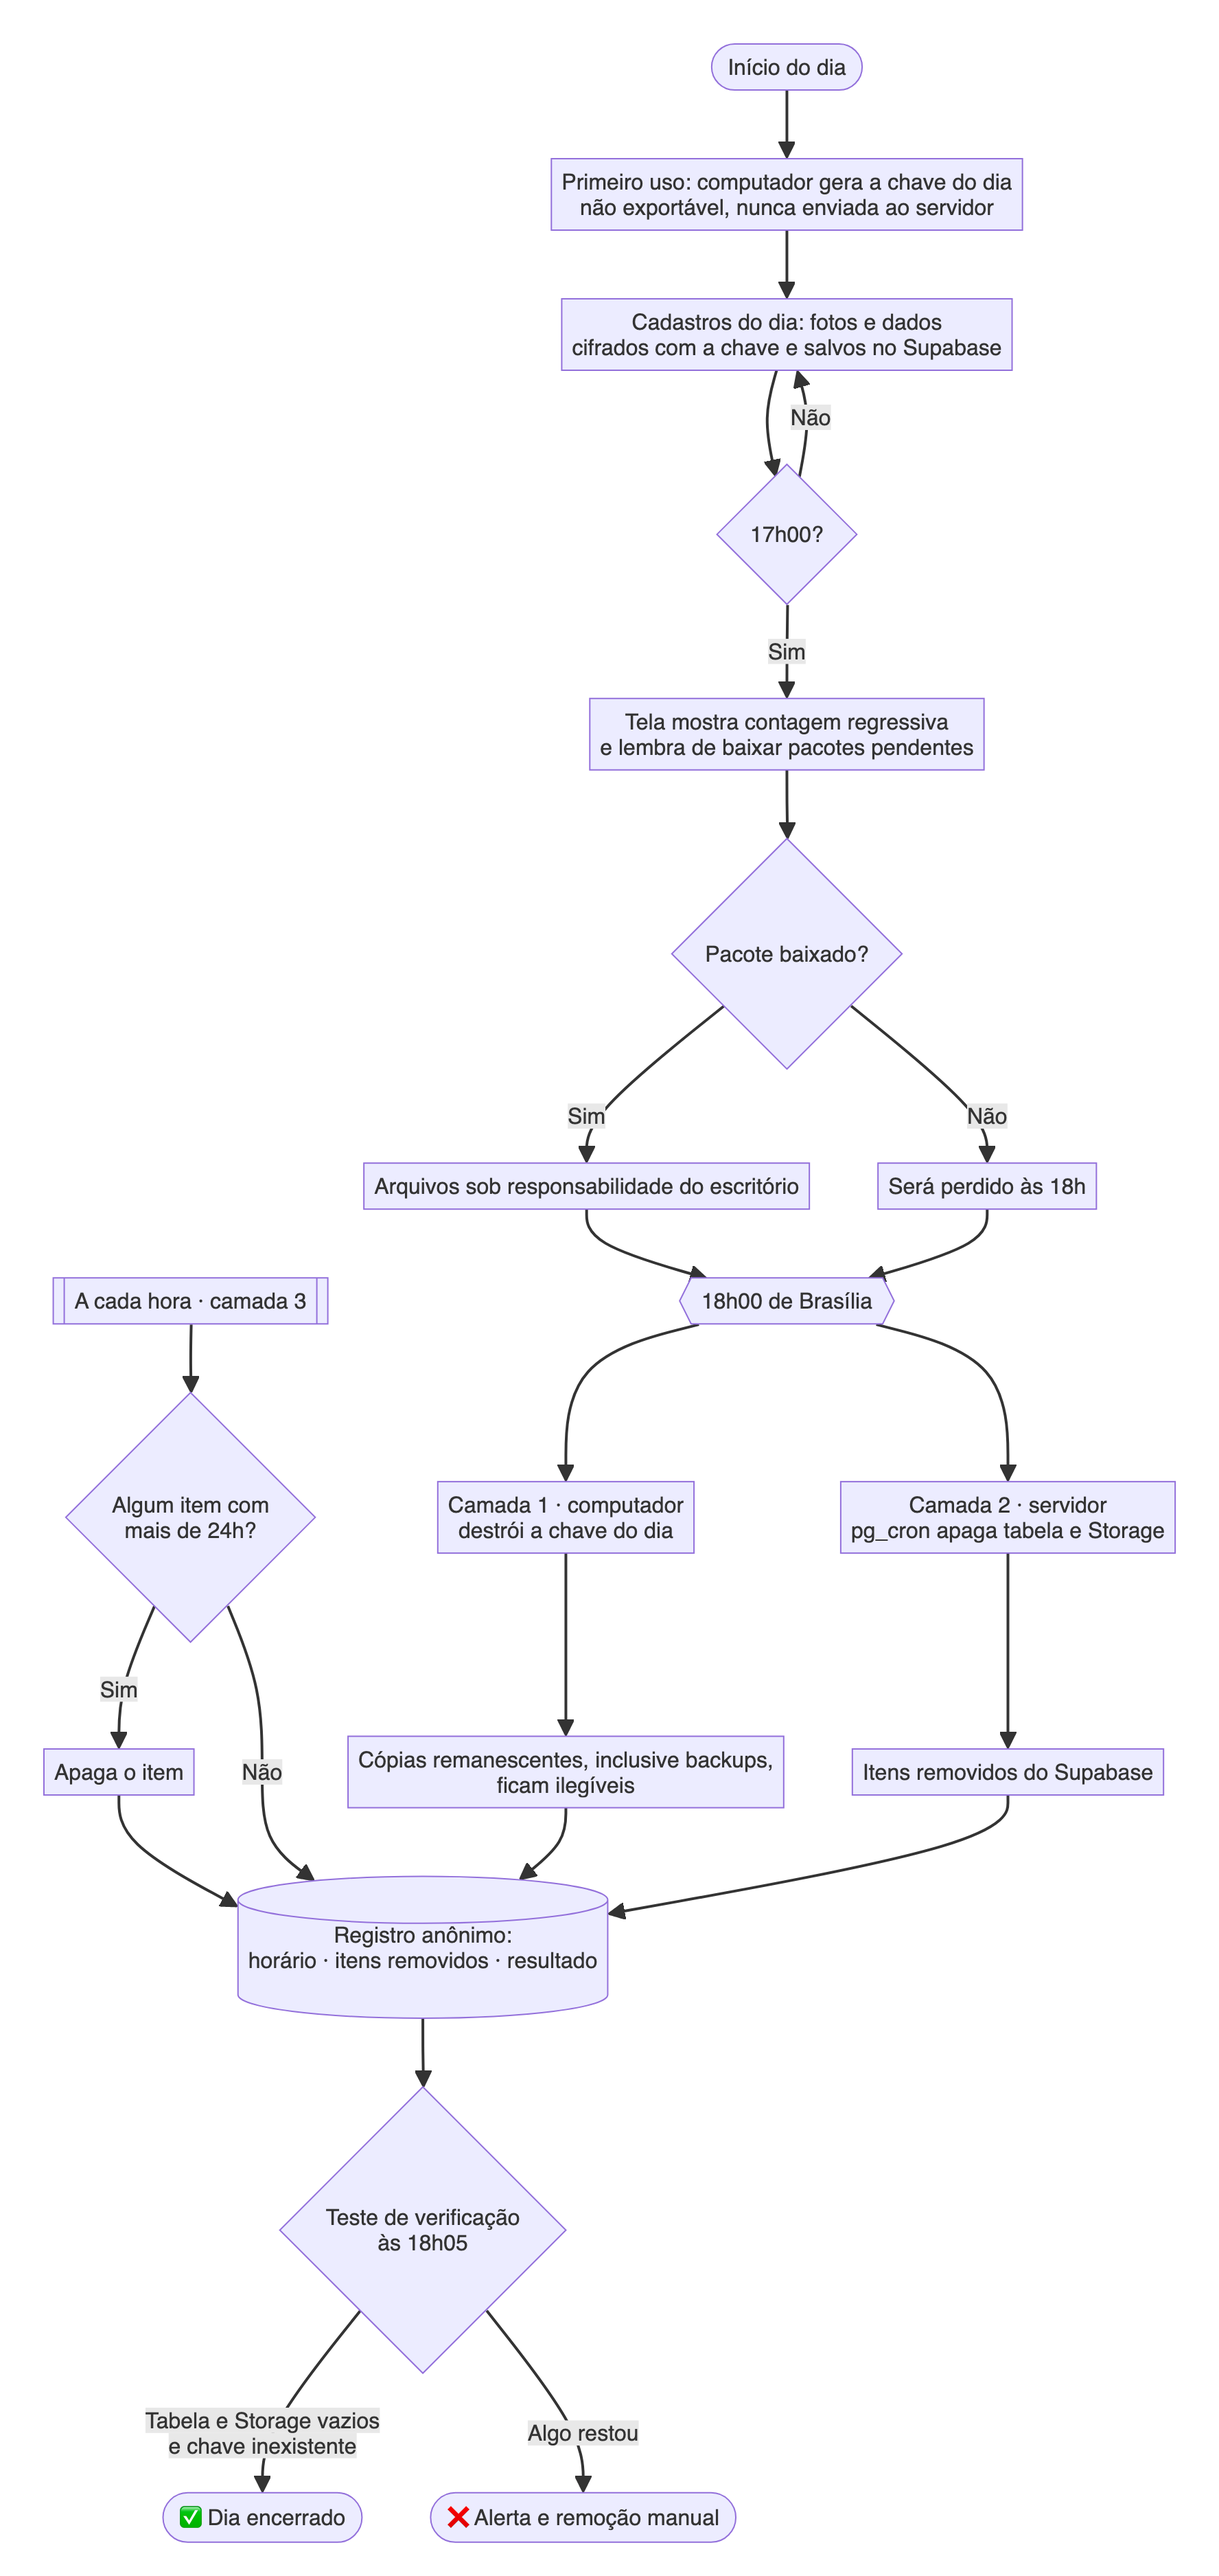
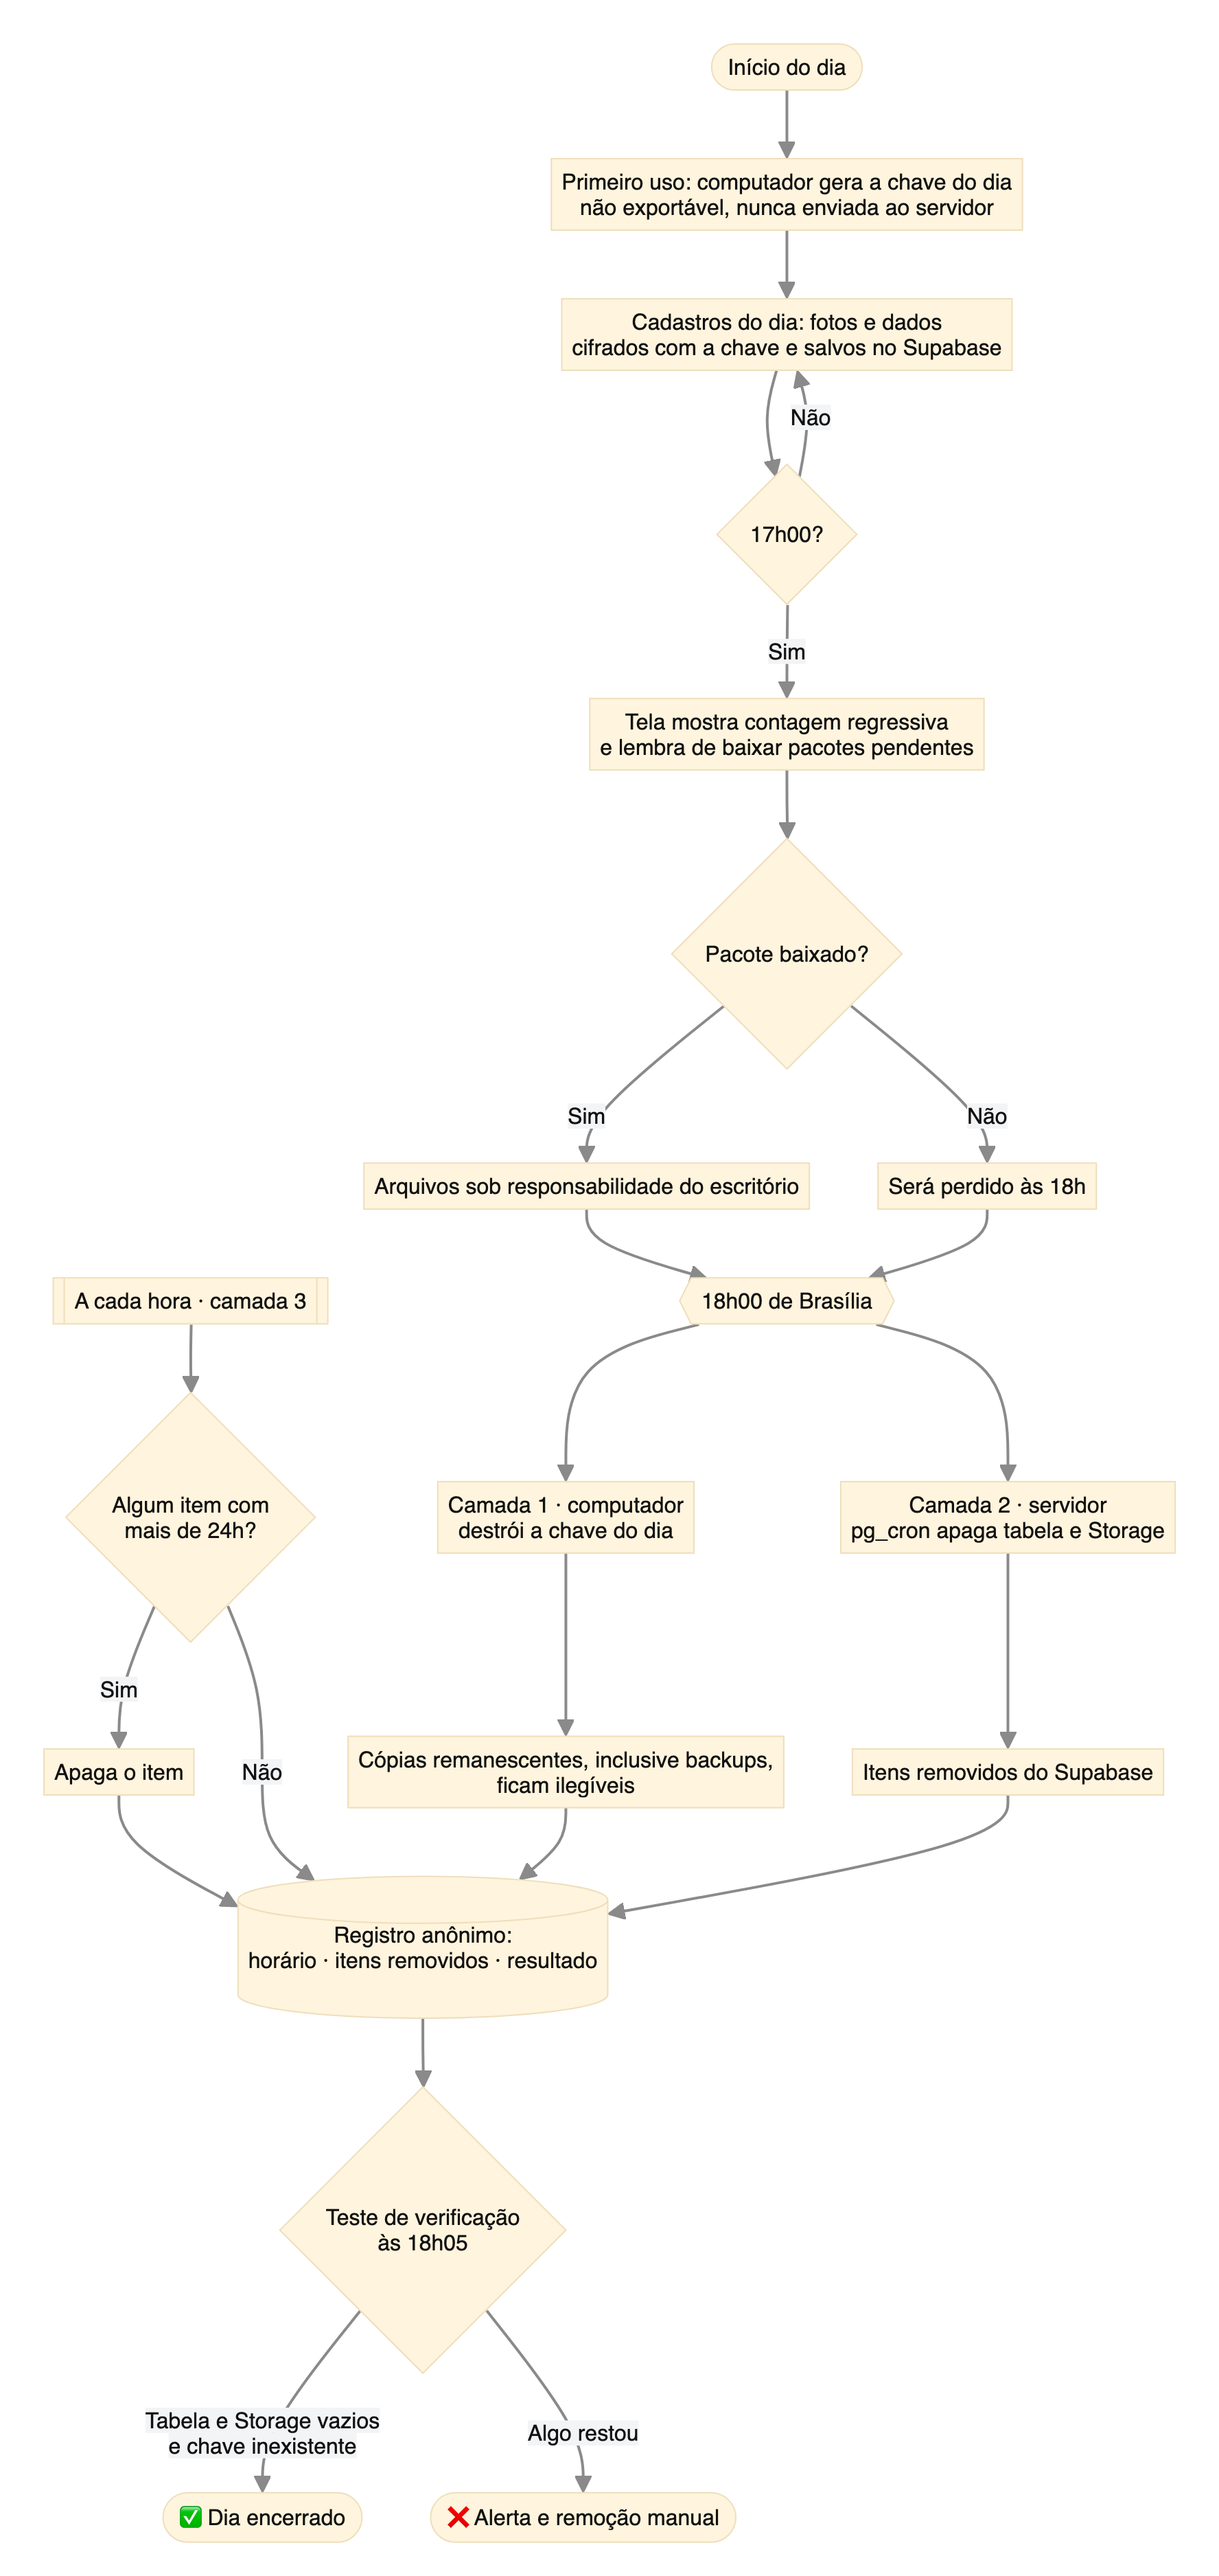
Todos os diagramas com tema fixo, legíveis em fundo claro e escuro

diff --git a/docs/arquitetura/fluxogramas.md b/docs/arquitetura/fluxogramas.md
@@ -11,6 +11,7 @@ Base: [requisitos](../requisitos.md) e [ADRs](../decisoes/README.md).
 Quem fala com quem, e onde o documento existe em texto aberto.
 
 ```mermaid
+%%{init: {"theme": "base", "themeVariables": {"lineColor": "#8a8a8a", "primaryTextColor": "#111111", "edgeLabelBackground": "#f3f4f6"}}}%%
 flowchart LR
   subgraph CEL["📱 Celular · navegador"]
     CAP["Página de captura"]
@@ -73,6 +74,7 @@ flowchart LR
 Os dois canais de entrada convergem no mesmo pipeline e na mesma tela de revisão.
 
 ```mermaid
+%%{init: {"theme": "base", "themeVariables": {"lineColor": "#8a8a8a", "primaryTextColor": "#111111", "edgeLabelBackground": "#f3f4f6"}}}%%
 flowchart TD
   INI([Juliana abre o sistema no computador]) --> MODO{Modo da sessão}
   MODO -->|Desenvolvimento| DEV[Só documentos fictícios]
@@ -130,6 +132,7 @@ flowchart TD
 O que cada parte envia, em ordem, e o que cada uma consegue ler.
 
 ```mermaid
+%%{init: {"theme": "base", "themeVariables": {"lineColor": "#8a8a8a", "primaryTextColor": "#111111", "edgeLabelBackground": "#f3f4f6"}}}%%
 sequenceDiagram
   autonumber
   actor Juliana
@@ -204,6 +207,7 @@ sequenceDiagram
 Do arquivo bruto aos campos com confiança. Cada losango é uma decisão automática.
 
 ```mermaid
+%%{init: {"theme": "base", "themeVariables": {"lineColor": "#8a8a8a", "primaryTextColor": "#111111", "edgeLabelBackground": "#f3f4f6"}}}%%
 flowchart TD
   IN[/Imagem ou PDF em memória/] --> ISPDF{É PDF?}
   ISPDF -->|Sim| TXT{Tem texto nativo<br/>na área do documento?}
@@ -263,6 +267,7 @@ flowchart TD
 Ciclo de vida de uma sessão cross-device, incluindo falhas.
 
 ```mermaid
+%%{init: {"theme": "base", "themeVariables": {"lineColor": "#8a8a8a", "primaryTextColor": "#111111", "edgeLabelBackground": "#f3f4f6"}}}%%
 stateDiagram-v2
   [*] --> Criada: Juliana pede captura pelo celular
   Criada --> AguardandoPareamento: QR exibido
@@ -300,6 +305,7 @@ stateDiagram-v2
 O que acontece com cada confirmação ou recusa, conforme o modo ([ADR 0004](../decisoes/0004-revisao-humana-e-ciclo-de-aprendizado.md)).
 
 ```mermaid
+%%{init: {"theme": "base", "themeVariables": {"lineColor": "#8a8a8a", "primaryTextColor": "#111111", "edgeLabelBackground": "#f3f4f6"}}}%%
 flowchart TD
   T[Tela de revisão] --> TT{Tipo detectado correto?}
   TT -->|Recusa| TC[Juliana indica o tipo correto] --> REX[Reextrai com o tipo indicado] --> CAMPOS
@@ -343,6 +349,7 @@ flowchart TD
 Cada lugar por onde o documento passa, por quanto tempo e como isso é verificado.
 
 ```mermaid
+%%{init: {"theme": "base", "themeVariables": {"lineColor": "#8a8a8a", "primaryTextColor": "#111111", "edgeLabelBackground": "#f3f4f6"}}}%%
 flowchart LR
   subgraph EXISTE["Documento em texto aberto"]
     direction TB
@@ -387,6 +394,7 @@ flowchart LR
 As três camadas independentes de remoção ([ADR 0007](../decisoes/0007-retencao-temporaria-e-purga-diaria.md)).
 
 ```mermaid
+%%{init: {"theme": "base", "themeVariables": {"lineColor": "#8a8a8a", "primaryTextColor": "#111111", "edgeLabelBackground": "#f3f4f6"}}}%%
 flowchart TD
   DIA([Início do dia]) --> K1[Primeiro uso: computador gera a chave do dia<br/>não exportável, nunca enviada ao servidor]
   K1 --> USO[Cadastros do dia: fotos e dados<br/>cifrados com a chave e salvos no Supabase]

diff --git a/docs/arquitetura/c4.md b/docs/arquitetura/c4.md
@@ -16,6 +16,7 @@ O terceiro nível, **componentes**, será desenhado depois da prova de conceito 
 Quem usa o sistema e com quais sistemas externos ele conversa.
 
 ```mermaid
+%%{init: {"theme": "base", "themeVariables": {"lineColor": "#8a8a8a", "primaryTextColor": "#111111", "edgeLabelBackground": "#f3f4f6"}}}%%
 flowchart TB
     JUL["🧑 Juliana · facilitador<br/>Envia o link, revisa e confirma"]
     ROB["🧑 Roberto · tester<br/>Fotografa os próprios documentos<br/>e confere os dados no fim"]
@@ -46,6 +47,7 @@ flowchart TB
 ## 2. Contexto · produção
 
 ```mermaid
+%%{init: {"theme": "base", "themeVariables": {"lineColor": "#8a8a8a", "primaryTextColor": "#111111", "edgeLabelBackground": "#f3f4f6"}}}%%
 flowchart TB
     JUL["🧑 Juliana · assistente de cadastro"]
     ROB["🧑 Roberto · cliente"]
@@ -93,6 +95,7 @@ flowchart TB
 Contêineres são as partes que rodam separadamente: aplicações, bancos e serviços.
 
 ```mermaid
+%%{init: {"theme": "base", "themeVariables": {"lineColor": "#8a8a8a", "primaryTextColor": "#111111", "edgeLabelBackground": "#f3f4f6"}}}%%
 flowchart LR
     subgraph CEL["📱 Celular do tester"]
         CAP["🟦 Página de captura<br/>React + TypeScript<br/>Câmera, qualidade, cifra AES-GCM"]
@@ -138,6 +141,7 @@ flowchart LR
 ## 4. Contêineres · produção
 
 ```mermaid
+%%{init: {"theme": "base", "themeVariables": {"lineColor": "#8a8a8a", "primaryTextColor": "#111111", "edgeLabelBackground": "#f3f4f6"}}}%%
 flowchart LR
     subgraph CEL["📱 Celular do cliente"]
         CAP["🟦 Página de captura<br/>Com a marca do parceiro"]

diff --git a/docs/etapas/04-estrategia.md b/docs/etapas/04-estrategia.md
@@ -52,6 +52,7 @@ A árvore (Teresa Torres, *Continuous Discovery Habits*) parte de **um resultado
 **Resultado:** a North Star, **clientes cadastrados por semana sem nenhuma edição** ([Etapa 5](05-metricas.md#1-north-star)). A primeira versão da árvore usava "menos tempo de cadastro, sem mais erros devolvidos", escrita antes da North Star; a raiz foi alinhada para árvore e métricas falarem a mesma língua.
 
 ```mermaid
+%%{init: {"theme": "base", "themeVariables": {"lineColor": "#8a8a8a", "primaryTextColor": "#111111", "edgeLabelBackground": "#f3f4f6"}}}%%
 flowchart TB
     R["⭐ North Star<br/>Clientes cadastrados por semana<br/>sem nenhuma edição"]
 

diff --git a/docs/etapas/05-metricas.md b/docs/etapas/05-metricas.md
@@ -99,6 +99,7 @@ A conferência fica com o tester, e não com o facilitador: quem revisou não po
 A árvore desdobra a North Star nos fatores que a fazem subir. Cada galho segue o caminho de um documento, do celular do cliente à confirmação da assistente, e cada folha é um número que o time consegue influenciar diretamente.
 
 ```mermaid
+%%{init: {"theme": "base", "themeVariables": {"lineColor": "#8a8a8a", "primaryTextColor": "#111111", "edgeLabelBackground": "#f3f4f6"}}}%%
 flowchart LR
     NS["⭐ North Star<br/>Clientes cadastrados por semana<br/>sem nenhuma edição"]
     AP["Apoio<br/>% de documentos confirmados<br/>sem edição"]

diff --git a/docs/etapas/07-business-case.md b/docs/etapas/07-business-case.md
@@ -153,6 +153,7 @@ Custo fixo anual: ~R$ 336 mil.
 Com o licenciamento, o **comprador** passa a ser o software parceiro: o líder de produto dele decide incorporar o componente, e o escritório só escolhe ativar o recurso.
 
 ```mermaid
+%%{init: {"theme": "base", "themeVariables": {"lineColor": "#8a8a8a", "primaryTextColor": "#111111", "edgeLabelBackground": "#f3f4f6"}}}%%
 quadrantChart
     title Poder x interesse
     x-axis Pouco interesse --> Muito interesse
